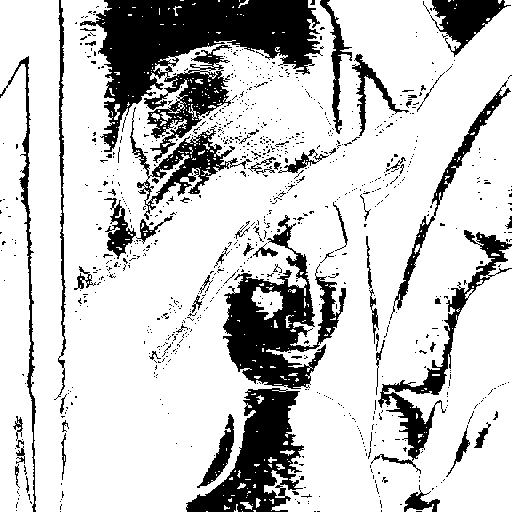
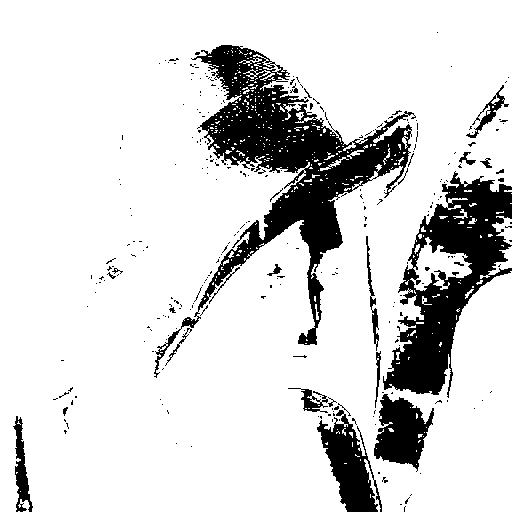
o

diff --git a/binarize/binarize.rb b/binarize/binarize.rb
@@ -41,8 +41,8 @@ end
 # Main part
 img = Imlib2::Image.load("srcimg/lena.jpg")
 minHue = 110.0
-maxHue = 130.0
-maxSat = 0.52
+maxHue = 140.0
+maxSat = 60.0
 minBright = 0.28
 
 img.h.times do |y|
@@ -57,7 +57,9 @@ img.h.times do |y|
 
         saturation = calcSaturation(c1, c2)
         col = 255
-        if hue >= minHue and hue <= maxHue and bright > minBright
+        if hue >= minHue and hue <= maxHue and saturation < maxSat and bright > minBright
+            puts x, y, saturation
+            puts ""
             col = 0
         end
         color.r = color.g = color.b = col
